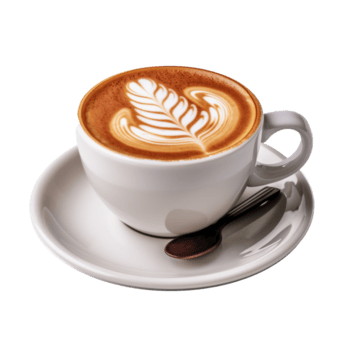
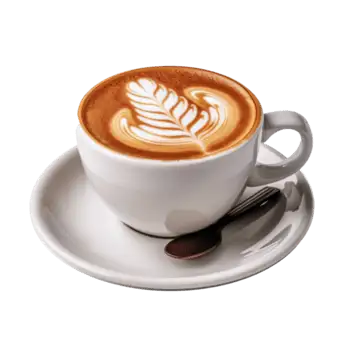
chore: performance optimization

Changed region(s): [[0.3429, 0.2286, 0.6571, 0.4], [0.7143, 0.3714, 0.7429, 0.4], [0.6, 0.4286, 0.6286, 0.4571]]

diff --git a/src/components/Navbar.tsx b/src/components/Navbar.tsx
@@ -1,5 +1,8 @@
 import { useState } from "react";
 import { Icon } from "@iconify/react";
+import WhatsappFill from "@iconify-react/ri/whatsapp-fill";
+import HamburgerMenuIcon from "@iconify-react/mdi/hamburger-menu";
+import CloseIcon from "@iconify-react/mdi/close";
 
 const navItems = [
   { name: "About Us", href: "#about" },
@@ -20,7 +23,12 @@ export default function Navbar() {
     <nav className="flex items-center justify-between">
       {/* brand */}
       <div className="flex flex-row items-center gap-2">
-        <img src="/favicon.ico" className="size-8" alt="Company logo" />
+        <img
+          src="/favicon.ico"
+          loading="eager"
+          className="size-8"
+          alt="Company logo"
+        />
         <span className="text-xl font-bold">KOPIPY</span>
       </div>
 
@@ -48,15 +56,16 @@ export default function Navbar() {
         target="_blank"
         className="tablet:block hover:text-brand hidden transition-all hover:scale-110"
       >
-        <Icon icon="ri:whatsapp-fill" width={32} height={32} />
+        <WhatsappFill width="32" height="32" />
       </a>
 
       {/* Nav panel activate button */}
       <button
         className="tablet:hidden cursor-pointer"
         onClick={() => setPanel(true)}
+        aria-label="Display mobile navigation panel"
       >
-        <Icon icon="mdi:hamburger-menu" width={24} height={24} />
+        <HamburgerMenuIcon width="24" height="24" />
       </button>
 
       {/* Nav panel */}
@@ -71,8 +80,9 @@ export default function Navbar() {
           <button
             className="bg-danger hover:bg-background hover:text-danger hover:border-danger text-foreground-secondary cursor-pointer rounded-sm border border-transparent px-4 py-2 transition-all"
             onClick={() => setPanel(false)}
+            aria-label="Close mobile navigation panel"
           >
-            <Icon icon="mdi:close" width={24} height={24} />
+            <CloseIcon width="24" height="24" />
           </button>
         </div>
 
@@ -109,7 +119,7 @@ export default function Navbar() {
             className="bg-background-secondary text-foreground-secondary hover:bg-background hover:text-foreground hover:border-foreground flex flex-row items-center gap-4 rounded-sm border border-transparent px-5 py-2 transition-all"
           >
             Hubungi Kami
-            <Icon icon="ri:whatsapp-fill" width={24} height={24} />
+            <WhatsappFill width="32" height="32" />
           </a>
         </div>
       </div>

diff --git a/src/styles/global.css b/src/styles/global.css
@@ -26,3 +26,4 @@
     --breakpoint-desktop: 1024px;
     --breakpoint-wide: 1280px;
 }
+

diff --git a/README.md b/README.md
@@ -1,41 +1,88 @@
-# Astro blank starter kit
+# Starter pack product demo
 
-An Astro blank project starter kit.
+Demo page of starter pack product
 
-## Prerequisites
+A simple Astro-based landing page for a coffee shop or café.
 
-- Node.js 22.12.0 or newer
-- npm (comes with Node.js)
+## Features
 
-## Install
+- Astro with Tailwind CSS
+- Responsive layout for desktop and mobile
+- Hero section with background image and overlay
+- Sections for about, featured menu, gallery, and reviews
+- Reusable layout and container components
 
-1. Open a terminal in the project root.
-2. Run:
+## Requirements
 
-```bash
-npm install
+- Node.js 22.12 or newer
+- npm
+
+## Installation
+
+1. Install dependencies:
+
+   ```bash
+   npm install
+   ```
+
+2. Start the development server:
+
+   ```bash
+   npm run dev
+   ```
+
+3. Open the local preview in your browser:
+   ```text
+   http://localhost:4321
+   ```
+
+## Project Scripts
+
+- `npm run dev` — start the local development server
+- `npm run build` — create a production build
+- `npm run preview` — preview the production build locally
+
+## Project Structure
+
+```text
+src/
+  components/
+    *all components here
+  layouts/
+    *all layouts here
+  pages/
+    index.astro
+    _sections/
+      * all section of single landing page here
+  styles/
+    global.css
+  assets/
+    images/
 ```
 
-## Run locally
+## How to Customize the Site
 
-```bash
-npm run dev
-```
+### 1. Change colors and theme
 
-Then open the local URL shown in the terminal.
+The main theme colors are defined in `src/styles/global.css`.
 
-## Build
+You can edit values such as:
 
-```bash
-npm run build
-```
+- `--color-background`
+- `--color-foreground`
+- `--color-brand`
+- `--color-brand-secondary`
+- `--color-background-secondary`
 
-## Preview production build
+### 2. Change fonts
 
-```bash
-npm run preview
-```
+Fonts are configured in `astro.config.mjs`.
 
-## Notes
+You can switch the display font and body font by updating the `fonts` section there.
 
-- The project uses Astro with React support and Tailwind CSS.
+### 3. Update navigation links
+
+The top navigation and footer navigation are defined in the relevant components:
+
+- `src/components/Navbar.tsx`
+- `src/components/Footer.astro`
